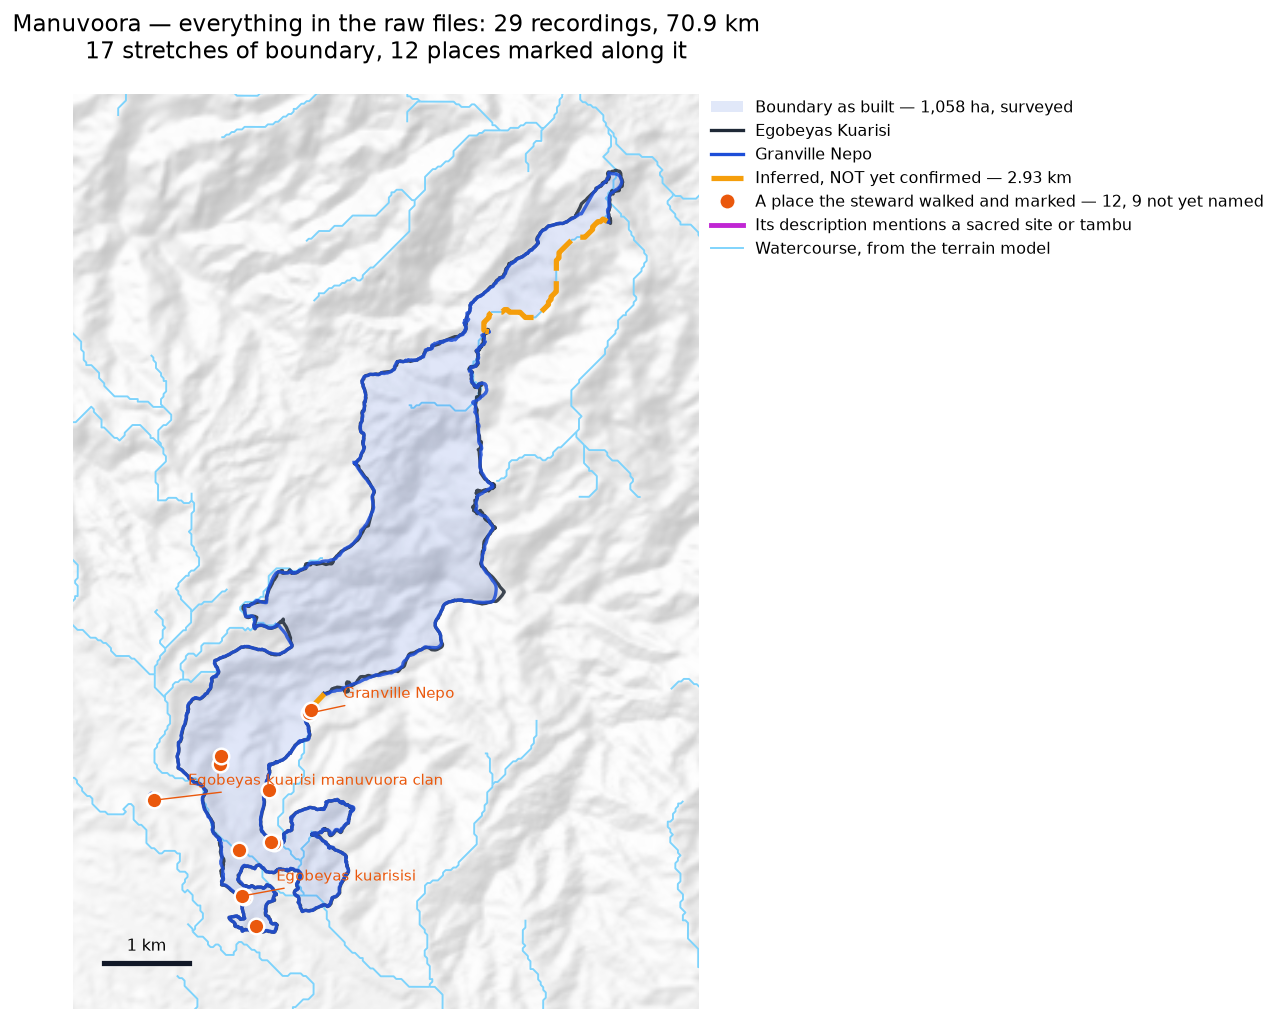
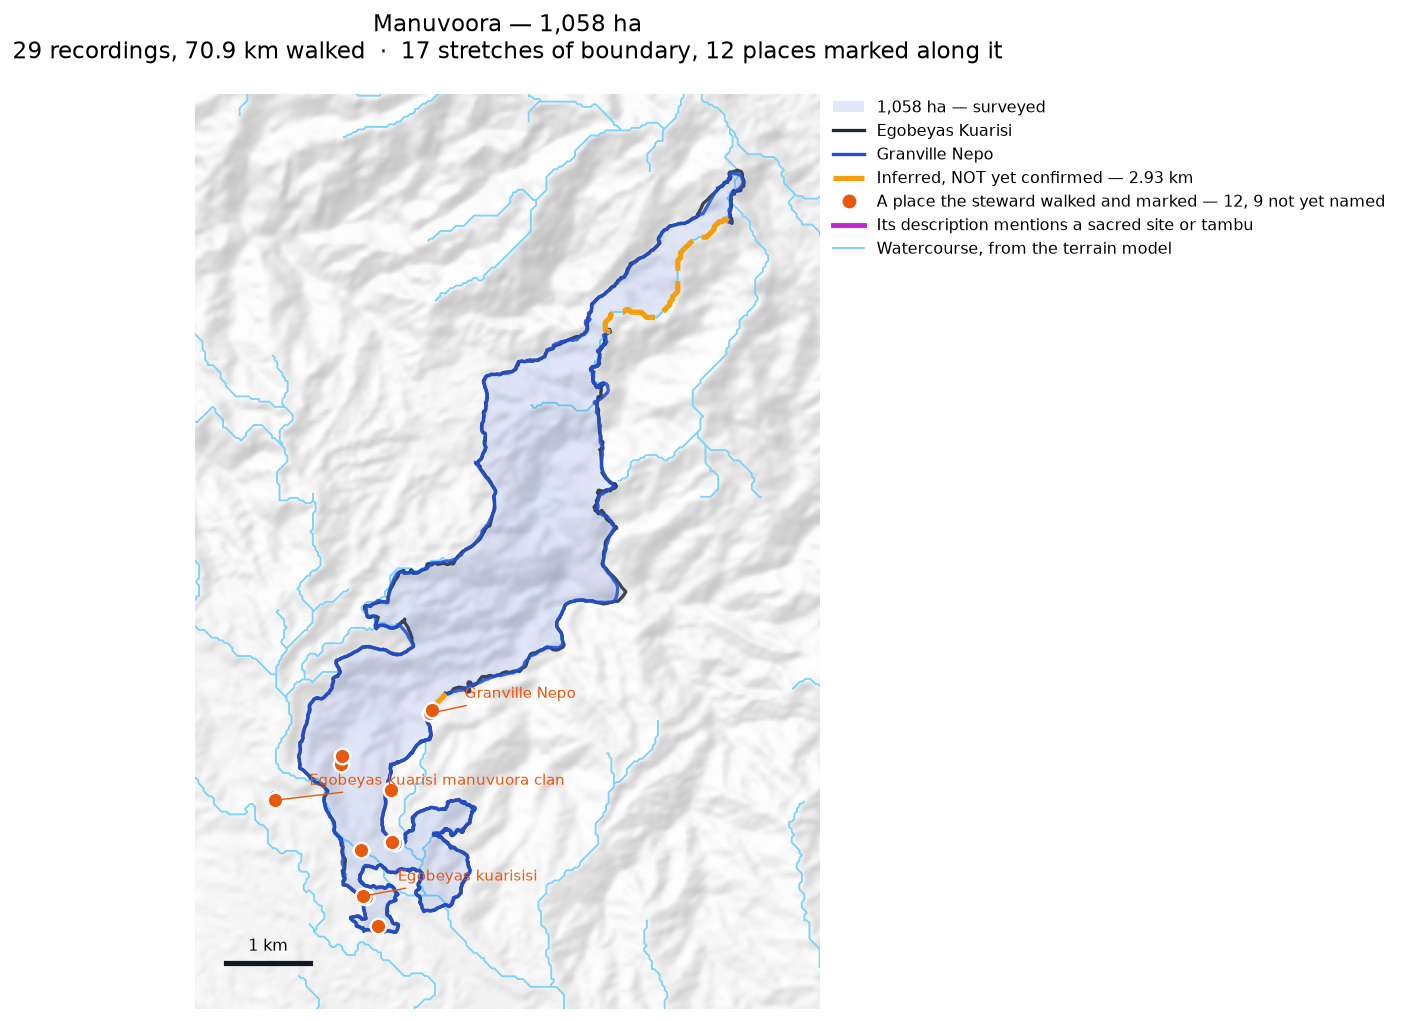
The hectare figure leads the map
It is what the clan is being told about their land, and it belongs where
the eye lands rather than in the fourth line of a legend. Manuvoora now
reads "Manuvoora — 1,058 ha" with the counts on a second line.

Open question raised with it: on Manuvoora that figure is the least
certain thing on the page — 9% of the perimeter is inferred and none of
the inference confirmed — and a clan reading 1,058 ha in large type will
take it as settled. Whether the caveat should travel in the title with
the number is not decided yet.

Claude-Session: https://claude.ai/code/session_01K6X75MkuiGQ9rmgDZx45vk

diff --git a/scripts/everything_map.py b/scripts/everything_map.py
@@ -430,20 +430,33 @@ def main(argv: list[str] | None = None) -> int:
     axis.set_ylim(window[1], window[3])
     axis.set_aspect("equal")
     axis.set_axis_off()
-    axis.set_title(f"{args.clan} — everything in the raw files: "
-                   f"{len(found)} recordings, {total:.1f} km\n"
-                   f"{len(lines)} stretch{'' if len(lines) == 1 else 'es'} "
-                   f"of boundary, {len(sites)} "
-                   f"place{'' if len(sites) == 1 else 's'} marked along it"
-                   + (f", {len(flagged)} sacred" if flagged else ""),
-                   fontsize=13, pad=10)
+    # The area first. It is what the clan is being told about their land,
+    # and it belongs where the eye lands, not in the fourth line of a
+    # legend.
+    headline = args.clan
+    if built is not None:
+        headline += f" — {built['area_ha']:,.0f} ha"
+    axis.set_title(
+        headline + "\n"
+        + f"{len(found)} recordings, {total:.1f} km walked  ·  "
+        + f"{len(lines)} stretch{'' if len(lines) == 1 else 'es'} of "
+          f"boundary, {len(sites)} "
+          f"place{'' if len(sites) == 1 else 's'} marked along it"
+        + (f", {len(flagged)} sacred" if flagged else ""),
+        fontsize=13, pad=10)
+    if built is not None:
+        axis.title.set_fontsize(13)
+        axis.set_title(axis.get_title(), fontsize=13, pad=10,
+                       loc="center")
     handles = []
     if built is not None:
         from matplotlib.patches import Patch
+        walked_share = (built["walked_km"] * 1000
+                        / built["geometry"].boundary.length * 100
+                        if built["geometry"].boundary.length else 0)
         handles.append(Patch(
             facecolor="#1d4ed8", alpha=0.13,
-            label=f"Boundary as built — {built['area_ha']:,.0f} ha, "
-                  f"{built['basis']}"))
+            label=f"{built['area_ha']:,.0f} ha — {built['basis']}"))
     handles += [Line2D([0], [0], color=colours[name], lw=1.9, label=name)
                 for name in walkers]
     settled = [r for r in derived_rows if CONFIRMED.search(r[2] or "")]
